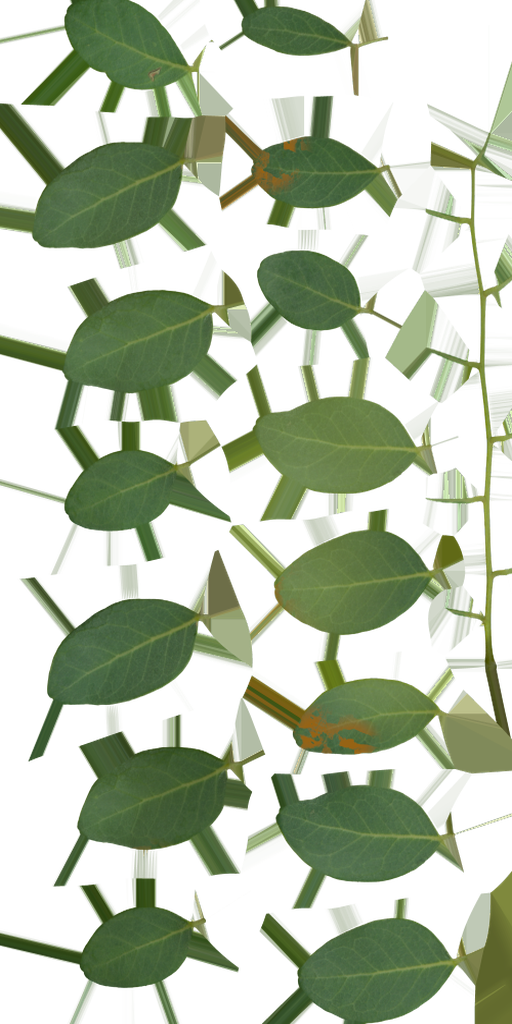
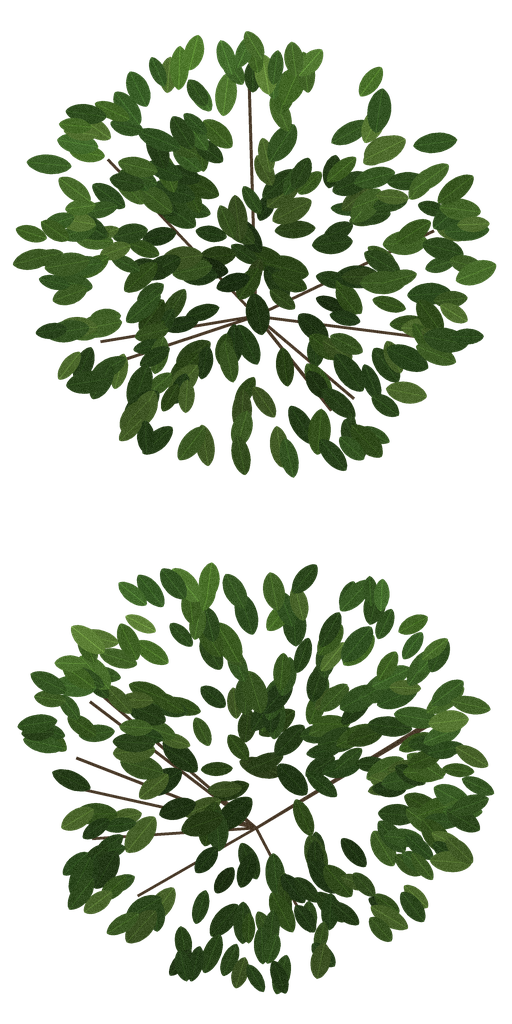
Kilnwood 0.18.2: diffuse-only foliage cards (no dusk dashes), new leaf clusters, lighter grass
Claude-Session: https://claude.ai/code/session_01XAsMhFDn9ftKNcNhDUrR2W

diff --git a/Assets/Kilnwood/Scripts/Game/Trees.cs b/Assets/Kilnwood/Scripts/Game/Trees.cs
@@ -12,7 +12,7 @@ namespace Kilnwood.Game
     public static class Trees
     {
         const int Variants = 4;
-        static Mesh[] _pines, _leafy, _leafyFar, _pineCards;
+        static Mesh[] _pines, _leafy, _leafyFar, _pineCards, _leafCards;
         static Material _src;
         static bool _checked;
         static readonly Dictionary<Color, Material> _mats = new Dictionary<Color, Material>();
@@ -80,7 +80,12 @@ namespace Kilnwood.Game
                 var g = Leaf[(int)(r2 * 3.99f)];
                 if (!far) Art.Part("Trunk", parent, Art.Frustum, Vector3.zero, new Vector3(0.38f * s, 2.6f * s, 0.38f * s), Look.Bark);
                 Add("Crown", parent, far ? _leafyFar[v] : _leafy[v], Mat(g), Vector3.zero, Vector3.one * s * (far ? 1.35f : 1f), !far);
-                // 0.18.1: the scanned leaf cards read as smeared shards (QA), so broadleaf crowns keep their own leafy mesh.
+                if (!far && CardsAvailable)
+                {
+                    // 0.18.2: leaf clusters from a generated atlas (the 0.18.0 cut-out left streaks that read as shards).
+                    _leafCards ??= MakeAll(LeafCards);
+                    Add("Leaves", parent, _leafCards[v], CardMat(_leafTex, g), Vector3.zero, Vector3.one * s, true);
+                }
             }
         }
 
@@ -201,7 +206,7 @@ namespace Kilnwood.Game
                     var p = c + Vector3.Scale(d, new Vector3(r * 1.1f, r * 0.85f, r * 1.1f)) * 0.95f;
                     var side = Vector3.Cross(d, Vector3.up); if (side.sqrMagnitude < 1e-3f) side = Vector3.right; side.Normalize();
                     var along = Vector3.Cross(side, d).normalized;
-                    float sz = 0.75f + N(seed * 7 + b, k) * 0.35f;
+                    float sz = 1.05f + N(seed * 7 + b, k) * 0.45f;   // round clusters: big enough to break the crown outline
                     var fromCrown = (p - centre);
                     var nrm = (fromCrown.normalized * 0.7f + d * 0.3f).normalized;
                     float ex = Mathf.Clamp01(0.3f + 0.45f * Mathf.Clamp01(fromCrown.magnitude / 2.2f) + 0.35f * (d.y * 0.5f + 0.5f));

diff --git a/Assets/Kilnwood/Scripts/Game/GrassView.cs b/Assets/Kilnwood/Scripts/Game/GrassView.cs
@@ -39,7 +39,7 @@ namespace Kilnwood.Game
                 _cardMat.SetFloat("_Cutoff", 0.45f);
                 _cardMat.SetFloat("_Wind", 0.35f);
                 _cardMat.SetFloat("_Translucency", 0.35f);
-                _cardMat.color = new Color(1.05f, 1.05f, 0.95f);
+                _cardMat.color = new Color(1.18f, 1.16f, 1.0f);   // 0.18.2: a touch lighter (QA: close shots darker than 0.17)
                 _root = new GameObject("Grass").transform;
                 _root.SetParent(parent, false);
                 int cw = (w.W + Chunk - 1) / Chunk, ch = (w.H + Chunk - 1) / Chunk;

diff --git a/CREDITS.md b/CREDITS.md
@@ -6,8 +6,8 @@ Scanned surfaces and sky from [Poly Haven](https://polyhaven.com), released as C
   weathered_brown_planks, roof_tiles_14, corrugated_iron, rusty_metal_02.
 - Ground (Assets/Kilnwood/Resources/PBR): leafy_grass, brown_mud_leaves_01, aerial_rocks_02, rocky_terrain_02, brown_mud_dry.
 - Rocks (Assets/Kilnwood/Resources/PBR/boulder_*): rock_boulder_dry.
-- Foliage cards (Assets/Kilnwood/Resources/Foliage): grass clumps from grass_medium_01, twigs from fir_tree_01, leaves from
-  tree_small_02 (the textures from those models, cut into card atlases).
+- Foliage cards (Assets/Kilnwood/Resources/Foliage): grass clumps from grass_medium_01, twigs from fir_tree_01 (the textures from
+  those models, cut into card atlases). The broadleaf leaf clusters (leaf_cards.png) are generated for Kilnwood.
 - Sky (Assets/Kilnwood/Resources/Sky/sky_day.hdr): Kloofendal 48d Partly Cloudy (Pure Sky), by Greg Zaal and Jarod Guest.
 
 The colour maps were turned into grey detail maps (average brightness tuned so each building keeps its designed colour).
